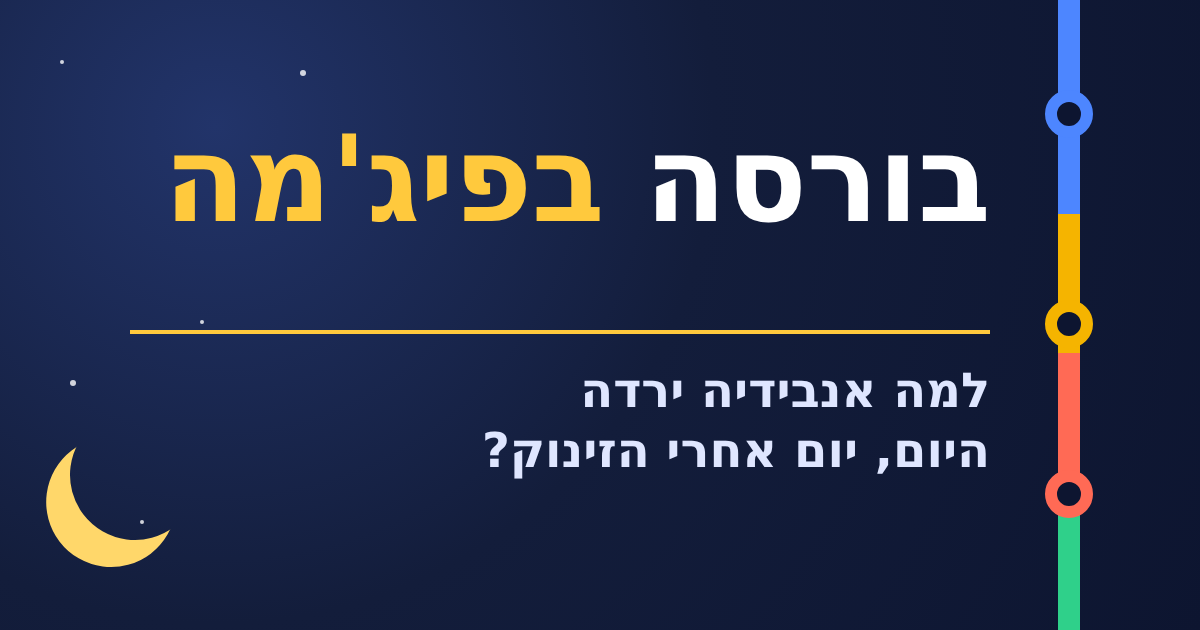
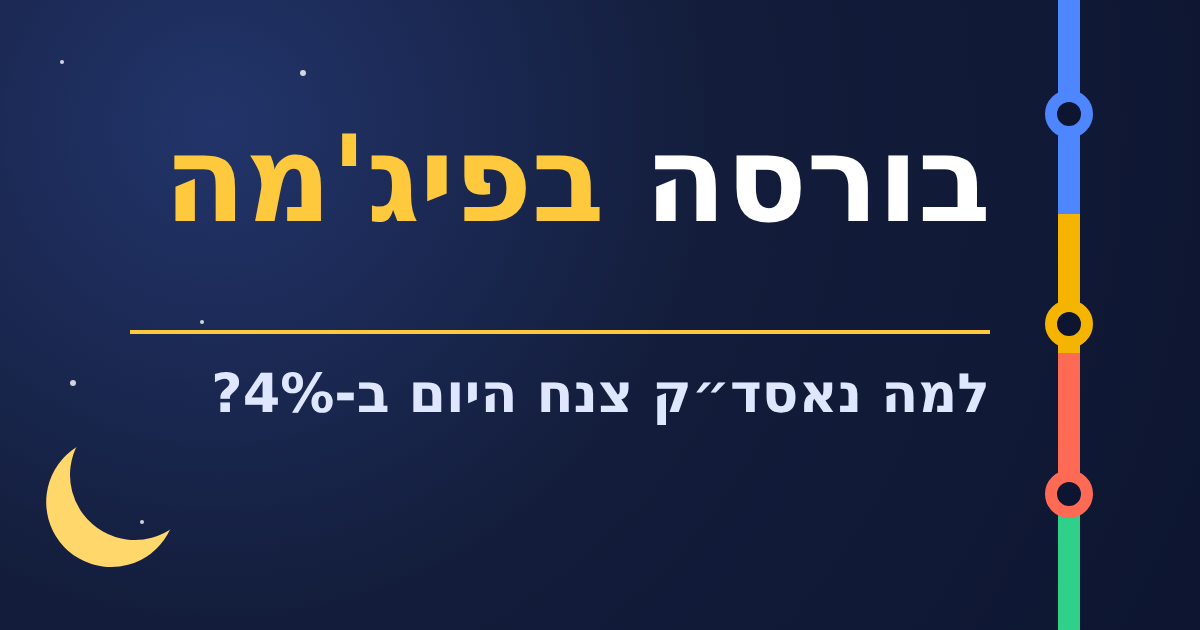
סקירת שווקים 25.11.2026
Claude-Session: https://claude.ai/code/session_019YX1ZAMNWE6e8aqupeQN2t

Changed region(s): [[0.185, 0.573, 0.8325, 0.754]]

diff --git a/index.html b/index.html
@@ -6,15 +6,15 @@
 <meta name="apple-mobile-web-app-title" content="בורסה בפיג'מה">
 <meta name="apple-mobile-web-app-capable" content="yes">
 <title>בורסה בפיג'מה</title>
-<meta name="description" content="יום אחרי הזינוק, אנבידיה ושאר מניות השבבים יורדות. גם תל אביב ירדה, והדולר כמעט בשיא של שנה.">
+<meta name="description" content="שלוש סיבות הגיעו יחד: ספקות בבינה מלאכותית, אינפלציה חמה ומכסים חדשים. הדולר בשיא מספטמבר 2025.">
 <link rel="alternate" type="application/rss+xml" title="בורסה בפיג'מה" href="https://skirat-shvakim.github.io/feed.xml">
 <meta property="og:type" content="article">
 <meta property="og:site_name" content="בורסה בפיג'מה">
 <meta property="og:locale" content="he_IL">
 <meta property="og:url" content="https://skirat-shvakim.github.io/">
-<meta property="og:title" content="למה אנבידיה ירדה היום, יום אחרי הזינוק?">
-<meta property="og:description" content="יום אחרי הזינוק, אנבידיה ושאר מניות השבבים יורדות. גם תל אביב ירדה, והדולר כמעט בשיא של שנה.">
-<meta property="og:image" content="https://skirat-shvakim.github.io/og.png?v=2411">
+<meta property="og:title" content="למה נאסד״ק צנח היום ב-4%?">
+<meta property="og:description" content="שלוש סיבות הגיעו יחד: ספקות בבינה מלאכותית, אינפלציה חמה ומכסים חדשים. הדולר בשיא מספטמבר 2025.">
+<meta property="og:image" content="https://skirat-shvakim.github.io/og.png?v=2511">
 <meta property="og:image:width" content="1200">
 <meta property="og:image:height" content="630">
 <meta name="twitter:card" content="summary_large_image">
@@ -274,7 +274,7 @@ button:focus-visible,input:focus-visible,summary:focus-visible,a:focus-visible{o
       <svg viewBox="0 0 40 40" aria-hidden="true"><rect width="40" height="40" rx="11" fill="#131d3b"/><circle cx="26.5" cy="11.5" r="6" fill="#ffd76a"/><circle cx="29.3" cy="9.6" r="5.3" fill="#131d3b"/><path d="M6 31 L13.5 24 L20 26 L32.5 17.5" fill="none" stroke="#4d86ff" stroke-width="3.4" stroke-linecap="round" stroke-linejoin="round"/><circle cx="13.5" cy="24" r="3" fill="#131d3b" stroke="#f5b400" stroke-width="2.3"/><circle cx="32.5" cy="17.5" r="3" fill="#131d3b" stroke="#ff6a55" stroke-width="2.3"/><circle cx="9" cy="9" r=".8" fill="#fff"/><circle cx="16" cy="6.5" r=".6" fill="#fff"/></svg>
       <span class="bt"><span class="b1">בורסה</span> <span class="b2">בפיג'מה</span></span>
     </a>
-    <span class="date">יום שלישי · 24.11</span>
+    <span class="date">יום רביעי · 25.11</span>
     <div class="tsz" role="group" aria-label="גודל טקסט"><button type="button" id="tszDown" aria-label="הקטנת טקסט">א−</button><button type="button" id="tszUp" aria-label="הגדלת טקסט">א+</button></div>
     <button type="button" class="menu" id="menuBtn" aria-controls="nav" aria-expanded="false" aria-label="תפריט"><span></span><span></span><span></span></button>
   </header>
@@ -290,13 +290,13 @@ button:focus-visible,input:focus-visible,summary:focus-visible,a:focus-visible{o
   <section class="card hero" id="hero" data-nav="בשורה התחתונה">
     <div class="newbie" id="newbie" hidden><span>חדש בשוק ההון? <a href="start.html">התחל כאן: 5 מושגים ב-2 דקות</a></span><button type="button" id="newbieX" aria-label="סגירה">✕</button></div>
     <div class="meta"><span class="rt">⏱ 30 שניות לעיקר · 3 דקות להכול</span></div>
-    <span class="mood">יום אדום · אחרי החגיגה</span>
-    <h1>החגיגה נגמרה מהר: השבבים יורדים, והדולר קרוב לשיא</h1>
-    <p class="sub">יום אחרי הזינוק, אנבידיה ושאר מניות השבבים יורדות. גם תל אביב ירדה, והדולר כמעט בשיא של שנה.</p>
+    <span class="mood">יום אדום · מכה להייטק</span>
+    <h1>יום קשה בוול סטריט: נאסד״ק צונח 4%, הדולר מזנק</h1>
+    <p class="sub">שלוש סיבות הגיעו יחד: ספקות בבינה מלאכותית, אינפלציה חמה ומכסים חדשים. הדולר בשיא מספטמבר 2025.</p>
     <ul class="bottom">
-      <li>אנבידיה ירדה כ-7%, יום אחרי זינוק של 31%.</li>
-      <li>נאסד״ק ירד כ-2.6% ו-<button class="term" data-t="sp500">S&amp;P 500</button> כ-1.2%, באמצע המסחר.</li>
-      <li><button class="term" data-t="ta125">ת״א 125</button> ירד 0.6%. טאואר צנחה 8.5%.</li>
+      <li>נאסד״ק ירד כ-4% באמצע המסחר. אנבידיה ירדה כ-8%.</li>
+      <li>הדולר עלה ל-3.38 ש״ח, השער הגבוה מספטמבר 2025.</li>
+      <li><button class="term" data-t="ta125">ת״א 125</button> ירד כ-1%. טאואר ונובה ירדו 6% עד 7%.</li>
     </ul>
     <button type="button" class="listen" id="listen" aria-pressed="false" hidden><svg viewBox="0 0 24 24" aria-hidden="true"><path d="M4 9v6h4l5 4V5L8 9H4z" fill="currentColor"/><path d="M16 8.5a5 5 0 0 1 0 7M18.5 6a8.5 8.5 0 0 1 0 12" fill="none" stroke="currentColor" stroke-width="2" stroke-linecap="round"/></svg><span>הקשב לעיקר</span></button>
     <button type="button" class="share" data-share>שתפו את הסקירה בוואטסאפ</button>
@@ -305,11 +305,11 @@ button:focus-visible,input:focus-visible,summary:focus-visible,a:focus-visible{o
   <section class="card me" id="me" data-nav="מה זה אומר עליי">
     <h2>מה זה אומר עליי</h2>
     <ul>
-      <li><b>חופשה בחו״ל:</b> ה<button class="term" data-t="rep">שער היציג</button> של הדולר: 3.345 ש״ח. בפועל: 1,000 דולר עולים כ-3,345 ש״ח.</li>
-      <li><b>פנסיה והשתלמות:</b> מסלול מניות אמריקאי ירד היום כ-1%. בפועל: על 100,000 ש״ח, כ-1,200 ש״ח פחות, על הנייר.</li>
+      <li><b>חופשה בחו״ל:</b> ה<button class="term" data-t="rep">שער היציג</button> קפץ ל-3.38 ש״ח. בפועל: טיסה של 1,000 דולר התייקרה בכ-35 ש״ח מאתמול.</li>
+      <li><b>פנסיה והשתלמות:</b> מסלול מניות אמריקאי ירד היום כ-3%. בפועל: על 100,000 ש״ח, כ-2,800 ש״ח פחות, על הנייר.</li>
       <li><b>משכנתא:</b> ה<button class="term" data-t="prime">פריים</button> נשאר 4.75%. בנק ישראל יחליט שוב רק ב-4 בינואר.</li>
     </ul>
-    <div class="todo"><b>✅ משהו שאפשר לעשות</b><p>טס בקרוב לחו״ל? הדולר יקר עכשיו. אפשר לפצל את ההמרה לכמה פעמים, במקום להמיר הכול ביום אחד.</p></div>
+    <div class="todo"><b>✅ משהו שאפשר לעשות</b><p>היכנס לאתר של קרן הפנסיה ובדוק באיזה מסלול אתה חוסך. כך תדע כמה יום כמו היום משפיע עליך.</p></div>
   </section>
 
   <aside class="spons" id="sponsorSlot" aria-label="תוכן בחסות" hidden></aside>
@@ -317,24 +317,24 @@ button:focus-visible,input:focus-visible,summary:focus-visible,a:focus-visible{o
   <section class="card" id="numbers" data-nav="המספרים">
     <h2>המספרים</h2>
     <div class="tiles">
-      <div class="t"><span><button class="term" data-t="ta125">ת״א 125</button></span><b>3,747</b><span class="chg d">▼ 0.6%</span><span class="ctx">השבבים הכבידו</span><span class="asof">נעילה</span></div>
-      <div class="t"><span><button class="term" data-t="sp500">S&amp;P 500</button></span><b>≈7,147</b><span class="chg d">▼ 1.2%</span><span class="ctx">מחזיר חלק מהזינוק</span><span class="asof">נכון ל-18:00</span></div>
-      <div class="t"><span>נאסד״ק</span><b>≈23,467</b><span class="chg d">▼ 2.6%</span><span class="ctx hot">השבבים יורדים חזק</span><span class="asof">נכון ל-18:00</span></div>
-      <div class="t"><span>דולר / שקל</span><b>3.345</b><span class="chg u">▲ 0.1%</span><span class="ctx hot">קרוב לשיא של שנה</span><span class="asof">שער יציג היום</span></div>
-      <div class="t"><span>נפט ברנט</span><b>≈$89</b><span class="chg d">▼ 0.4%</span><span class="ctx">הסנקציות לא הקפיצו</span><span class="asof">נכון ל-08:40</span></div>
-      <div class="t"><span>זהב</span><b>$3,572</b><span class="chg d">▼ 2.2%</span><span class="ctx">ליד שפל של 14 חודשים</span><span class="asof">נכון ל-17:55</span></div>
+      <div class="t"><span><button class="term" data-t="ta125">ת״א 125</button></span><b>≈3,711</b><span class="chg d">▼ 1.0%</span><span class="ctx">השבבים שוב הכבידו</span><span class="asof">נעילה</span></div>
+      <div class="t"><span><button class="term" data-t="sp500">S&amp;P 500</button></span><b>≈7,001</b><span class="chg d">▼ 2.8%</span><span class="ctx hot">ירידה חדה ונדירה</span><span class="asof">נכון ל-18:06</span></div>
+      <div class="t"><span>נאסד״ק</span><b>≈22,748</b><span class="chg d">▼ 4.1%</span><span class="ctx hot">נוגע בשוק דובי</span><span class="asof">נכון ל-18:06</span></div>
+      <div class="t"><span>דולר / שקל</span><b>3.380</b><span class="chg u">▲ 1.0%</span><span class="ctx hot">הכי גבוה מספטמבר 2025</span><span class="asof">שער יציג היום</span></div>
+      <div class="t"><span>נפט ברנט</span><b>≈$90</b><span class="chg u">▲ 1.4%</span><span class="ctx">מתיחות במפרץ</span><span class="asof">נכון ל-17:30</span></div>
+      <div class="t"><span>זהב</span><b>≈$3,460</b><span class="chg d">▼ 3.2%</span><span class="ctx hot">מתחת ל-3,500 דולר</span><span class="asof">נכון ל-18:00</span></div>
     </div>
     <details class="adv">
       <summary>עוד נתונים, למתקדמים</summary>
       <div class="tiles">
-        <div class="t"><span>יורו / שקל</span><b>3.663</b><span class="chg d">▼ 0.1%</span><span class="ctx">כמעט בלי שינוי</span><span class="asof">שער יציג היום</span></div>
-        <div class="t"><span><button class="term" data-t="yield">תשואת אג״ח</button> ארה״ב, 10 שנים</span><b>4.91%</b><span class="chg d">▼ 0.01</span><span class="ctx">קרוב לשיא של שנים</span><span class="asof">נכון ל-17:30</span></div>
-        <div class="t"><span>אג״ח ממשלת ישראל (מדד)</span><b>כללי</b><span class="chg u">▲ 0.2%</span><span class="ctx">ביקוש לאיגרות בטוחות</span><span class="asof">נעילה</span></div>
-        <div class="t"><span><button class="term" data-t="vix">מדד הפחד VIX</button></span><b>27.6</b><span class="chg u">▲ 3.8%</span><span class="ctx">הפחד חוזר מעט</span><span class="asof">נכון ל-17:30</span></div>
-        <div class="t"><span>ביטקוין</span><b>≈$59,900</b><span class="chg d">▼ 4.6%</span><span class="ctx">שוב מתחת ל-60 אלף</span><span class="asof">נכון ל-17:30</span></div>
+        <div class="t"><span>יורו / שקל</span><b>≈3.70</b><span class="chg u">▲ 1.0%</span><span class="ctx">גם היורו התחזק</span><span class="asof">נכון ל-17:30</span></div>
+        <div class="t"><span><button class="term" data-t="yield">תשואת אג״ח</button> ארה״ב, 10 שנים</span><b>4.82%</b><span class="chg d">▼ 0.08</span><span class="ctx">בורחים לאיגרות בטוחות</span><span class="asof">נכון ל-18:00</span></div>
+        <div class="t"><span>אג״ח ממשלת ישראל, 10 שנים</span><b>4.15%</b><span class="chg d">▼ 0.04</span><span class="ctx">לא אומת</span><span class="asof">נעילת אתמול</span></div>
+        <div class="t"><span><button class="term" data-t="vix">מדד הפחד VIX</button></span><b>33.5</b><span class="chg u">▲ 27%</span><span class="ctx hot">פחד גבוה</span><span class="asof">נכון ל-18:06</span></div>
+        <div class="t"><span>ביטקוין</span><b>≈$58,200</b><span class="chg d">▼ 1.9%</span><span class="ctx">ממשיך לרדת</span><span class="asof">נכון ל-18:00</span></div>
       </div>
     </details>
-    <p class="note">ת״א 125: נעילה. וול סטריט עדיין פתוחה: נתונים מ-18:00 שעון ישראל. דולר ויורו: השער היציג, מול אתמול. הנפט: מחיר מהבוקר. הזהב: חוזים עתידיים.</p>
+    <p class="note">ת״א 125: נעילה, ממקור אחד (לא אומת). וול סטריט עדיין פתוחה: נתונים מ-18:06 שעון ישראל. דולר: השער היציג, מול אתמול. יורו: שער חי. הזהב: חוזים עתידיים.</p>
   </section>
 
   <section class="card pick" id="stocks" data-nav="המניות שלי">
@@ -351,22 +351,23 @@ button:focus-visible,input:focus-visible,summary:focus-visible,a:focus-visible{o
 
   <section class="card" id="story" data-nav="הסיפור של היום" data-fold>
     <h2>הסיפור של היום</h2>
-    <p class="teaser">אחרי הזינוק של אתמול, המשקיעים לוקחים רווחים, והספקות על הבינה המלאכותית חוזרים.</p>
+    <p class="teaser">שלוש בעיות הגיעו ביחד: ספק בבינה מלאכותית, אינפלציה חמה בארה״ב ומכסים חדשים.</p>
     <button type="button" class="kidb" id="kidBtn" aria-expanded="false" aria-controls="kid">🧒 תסביר לי כמו לילד בן 10</button>
     <div class="kid" id="kid" hidden>
-      <p>תחשוב על כיתה שקיבלה פתאום ציון מעולה.</p>
-      <p>אתמול כולם חגגו וקפצו משמחה.</p>
-      <p>היום ההורים שאלו: זה יקרה גם במבחן הבא?</p>
-      <p>קצת מהשמחה ירדה. זה מה שקרה לאנבידיה היום.</p>
+      <p>כמה חברים שמו את כל דמי הכיס בדוכן לימונדה ענק.</p>
+      <p>עכשיו כולם שואלים: יהיו מספיק קונים?</p>
+      <p>באותו יום ההורים אמרו: הלוואות יתייקרו.</p>
+      <p>וגם הלימונים מחו״ל עומדים להתייקר.</p>
+      <p>אז הרבה נבהלו, ומכרו את החלק שלהם בדוכן.</p>
     </div>
     <div class="fold-body">
-      <p>אתמול אנבידיה זינקה 31%, אחרי שהמנכ״ל ג׳נסן הואנג חזר. היום המניה ירדה כ-7%. חלק מהמשקיעים עשו <button class="term" data-t="profit">מימוש רווחים</button>. חברי קונגרס משתי המפלגות מתחו ביקורת על החזרתו. גם הספקות חזרו: האם ההשקעות בבינה המלאכותית ישתלמו? מניות שבבים אחרות ירדו איתה. AMD ירדה כ-8%.</p>
-      <p>בתל אביב, ת״א 125 ירד 0.6%. טאואר, יצרנית שבבים, צנחה 8.5%. מנגד, אמון הצרכנים בארה״ב קפץ לשיא של כמעט שנתיים. זו חדשה טובה לכלכלה. אבל השוק כבר מעריך כ-95% סיכוי ש<button class="term" data-t="fed">הפד</button> יעלה ריבית בדצמבר.</p>
+      <p>נאסד״ק ירד היום כ-4%, ו-<button class="term" data-t="sp500">S&amp;P 500</button> כ-2.8%. מדד מאה החברות הגדולות בנאסד״ק נגע ב<button class="term" data-t="bear">שוק דובי</button>. אנבידיה ירדה כ-8%, ו-AMD כ-8%. המשקיעים שואלים שוב: האם ההשקעה הענקית בבינה מלאכותית תשתלם? גם <button class="term" data-t="pce">מדד PCE</button> יצא חם. האינפלציה בארה״ב: 3.8% בשנה.</p>
+      <p>בגלל זה, השוק מעריך כ-98% סיכוי ש<button class="term" data-t="fed">הפד</button> יעלה ריבית ב-9 בדצמבר. במקביל, ארה״ב הציעה <button class="term" data-t="tariff">מכסים</button> חדשים על סין, אירופה ועוד מדינות. ישראל לא ברשימה. בתל אביב, ת״א 125 ירד כ-1%. הדולר עלה ל-3.38 ש״ח. הזהב ירד מתחת ל-3,500 דולר.</p>
       <h3 class="subh">הזווית הגיאופוליטית</h3>
       <div class="geo-in">
-        <div class="item"><span class="tag">איראן</span><h3>מוקשים בהורמוז, סנקציות מוושינגטון</h3><p>איראן טוענת ששלוש מכליות עלו על מוקשים במצר הורמוז. הטענה לא אומתה. ארה״ב הטילה <button class="term" data-t="sanctions">סנקציות</button> חדשות על הכספים של איראן. הנפט כמעט לא זז.</p></div>
-        <div class="item"><span class="tag">ישראל</span><h3>למה השקל חלש?</h3><p>הדולר קרוב לשיא של שנה. לפי ביזפורטל, יש שלוש סיבות. הריבית בארה״ב גבוהה מהריבית כאן. התשואות בארה״ב בשיא של שנים. ויש אי-ודאות פוליטית: הממשלה החדשה ותקציב 2027.</p></div>
-        <div class="item"><span class="tag">ארה״ב–סין</span><h3>עוד לחץ על שבבים לסין</h3><p>ארה״ב הכניסה חברה בת של עליבאבא לרשימה שחורה. גם המכירות של אנבידיה לסין נבדקות יותר. זה עוד סיבה לזהירות במניות השבבים.</p></div>
+        <div class="item"><span class="tag">ארה״ב–סין</span><h3>מכסים חדשים, בינתיים רק הצעה</h3><p>ארה״ב מציעה מכס נוסף של 20% על סין. גם אירופה, יפן ודרום קוריאה ברשימה. ההחלטה תגיע רק אחרי ינואר. הפסקת האש המסחרית עם סין נגמרת ב-10 בינואר.</p></div>
+        <div class="item"><span class="tag">איראן</span><h3>המפרץ שוב מתחמם</h3><p>לפי דיווחים, איראן תקפה היום בסיסים אמריקאיים במפרץ. החות׳ים תקפו את ריאד. הנפט עלה כ-1.4%, לכ-90 דולר לחבית.</p></div>
+        <div class="item"><span class="tag">ישראל</span><h3>שותף ראשון לאיזנקוט</h3><p>איזנקוט חתם הסכם ראשון, עם ליברמן. לגוש שלו 48 מושבים, וצריך 61. המנדט נגמר ב-6 בדצמבר. אי-הוודאות הזו מחלישה את השקל.</p></div>
       </div>
     </div>
   </section>
@@ -374,25 +375,25 @@ button:focus-visible,input:focus-visible,summary:focus-visible,a:focus-visible{o
 
   <section class="card think" id="think" data-nav="נקודה למחשבה" data-fold>
     <h2>נקודה למחשבה</h2>
-    <div class="item teaser"><h3>זינוק ענק לא מבטיח המשך</h3><p>אחרי עלייה חדה, חלק מהמשקיעים מוכרים כדי לשמור את הרווח. ירידה למחרת היא דבר רגיל.</p></div>
+    <div class="item teaser"><h3>ירידה של 20% היא לא סוף הסיפור</h3><p>נאסד״ק ירד 20% ויותר כמה פעמים בעבר. בסוף הוא תמיד חזר לשיא. לפעמים זה לקח שנים.</p></div>
     <div class="fold-body">
-      <div class="item"><h3>חדשות טובות, תגובה חמוצה</h3><p>אמון הצרכנים בארה״ב בשיא של שנתיים. כלכלה חזקה יכולה לשכנע את הפד להעלות ריבית. לכן השוק לא חגג.</p></div>
-      <div class="item"><h3>מה אם כולם טועים?</h3><p>אולי הירידה היום היא רק עצירה קצרה. אם הדוחות הקרובים יהיו חזקים, החשש מהבינה המלאכותית עלול להתברר כמוגזם.</p></div>
+      <div class="item"><h3>חדשות טובות, שוב תגובה רעה</h3><p>הצמיחה בארה״ב חזקה, והאבטלה נמוכה. אבל עם אינפלציה חמה, זה מקרב העלאת ריבית. לכן השוק ירד.</p></div>
+      <div class="item"><h3>מה אם כולם טועים?</h3><p>יש אנליסטים שאומרים: זה רגע הכאב הגדול, ואחריו עלייה. אחרים מזהירים שמוקדם מדי. אף אחד לא יודע בוודאות.</p></div>
     </div>
   </section>
 
   <div class="learn">
     <section class="card word" id="word" data-nav="מונח היום">
       <h2>מונח היום</h2>
-      <p class="w">מימוש רווחים</p>
-      <p>מכירה של מניה אחרי שהיא עלתה, כדי "לנעול" את הרווח. כשהרבה עושים זאת יחד, המחיר יורד.</p>
-      <p class="ex">דוגמה מהיום: אנבידיה זינקה אתמול 31%. היום רבים מכרו ברווח, והמניה ירדה כ-7%.</p>
+      <p class="w">שוק דובי</p>
+      <p>מצב שבו מדד יורד 20% או יותר מהשיא האחרון שלו. ההפך הוא שוק שורי, כשהמחירים עולים לאורך זמן.</p>
+      <p class="ex">דוגמה מהיום: מדד מאה החברות הגדולות בנאסד״ק נגע ב-20% מתחת לשיא שלו מאוקטובר.</p>
     </section>
     <section class="card myth" id="myth" data-nav="מיתוס או עובדה">
       <h2>מיתוס או עובדה?</h2>
-      <p class="claim">"כשהדולר מתחזק, הרבה מוצרים בארץ מתייקרים."</p>
+      <p class="claim">"כשהמניות צונחות, הזהב תמיד עולה."</p>
       <div class="mb" role="group" aria-label="מה דעתך?"><button type="button" data-g="myth">מיתוס</button><button type="button" data-g="fact">עובדה</button></div>
-      <div class="mv" id="mythAns" data-ans="fact" aria-live="polite" hidden><span class="res">עובדה.</span><p>ישראל קונה בחו״ל דלק, רכבים, מחשבים ומזון. המחיר שלהם נקבע בדולרים. והיום הדולר קרוב לשיא של שנה.</p></div>
+      <div class="mv" id="mythAns" data-ans="myth" aria-live="polite" hidden><span class="res">מיתוס.</span><p>לא תמיד. היום נאסד״ק צנח כ-4%, וגם הזהב ירד כ-3%. דולר חזק וריבית שצפויה לעלות הכבידו על הזהב.</p></div>
     </section>
   </div>
 
@@ -412,38 +413,39 @@ button:focus-visible,input:focus-visible,summary:focus-visible,a:focus-visible{o
   <section class="card" id="tomorrow" data-nav="מה לעקוב מחר" data-fold>
     <h2>מה לעקוב מחר</h2>
     <ul class="cal teaser">
-      <li><time>רביעי</time><span>מדד PCE: נתון האינפלציה האחרון בארה״ב לפני הפד.</span></li>
+      <li><time>חמישי</time><span>וול סטריט סגורה לחג ההודיה. תל אביב תסחר בלי כיוון מניו יורק.</span></li>
     </ul>
     <div class="fold-body"><ul class="cal">
-      <li><time>הלילה</time><span>דוחות דל, וורקדיי ואוטודסק: מבחן לביקוש לבינה מלאכותית.</span></li>
-      <li><time>רביעי</time><span>האם הירידה בשבבים תימשך גם מחר?</span></li>
-      <li><time>רביעי</time><span>דוחות הפניקס, מנורה, עזריאלי ושטראוס בתל אביב.</span></li>
-      <li><time>חמישי</time><span>חג ההודיה: וול סטריט סגורה. בשישי מסחר מקוצר.</span></li>
-      <li><time>9.12</time><span>החלטת הפד: השוק מעריך כ-95% סיכוי להעלאה.</span></li>
+      <li><time>חמישי</time><span>האם הירידה בשבבים תימשך בתל אביב? טאואר ונובה במבחן.</span></li>
+      <li><time>שישי</time><span>מסחר קצר בתל אביב. וול סטריט נסגרת מוקדם, ב-20:00.</span></li>
+      <li><time>29.11</time><span>מדינות הנפט הגדולות נפגשות על כמות התפוקה.</span></li>
+      <li><time>6.12</time><span>המנדט של איזנקוט להרכבת ממשלה נגמר.</span></li>
+      <li><time>9.12</time><span>החלטת הפד: השוק מעריך כ-98% סיכוי להעלאת ריבית.</span></li>
       <li><time>4.1</time><span>ההחלטה הבאה של בנק ישראל על הריבית.</span></li>
     </ul></div>
   </section>
 
   <section class="card src" id="sources" data-nav="מקורות" data-fold>
     <h2>מקורות</h2>
-    <p class="teaser">הסקירה מבוססת על 15 כתבות ממקורות בארץ ובעולם.</p>
+    <p class="teaser">הסקירה מבוססת על 16 כתבות ממקורות בארץ ובעולם.</p>
     <div class="fold-body">
     <p>
-      <a href="https://il.investing.com/news/stock-market-news/article-1041386">Investing – נעילת תל אביב</a> ·
-      <a href="https://www.ice.co.il/finance/news/article/1138979">אייס – טאואר צנחה</a> ·
-      <a href="https://www.sponser.co.il/Article.aspx?ArticleId=124111">ספונסר – סיכום המסחר</a> ·
-      <a href="https://www.newsru.co.il/finance/24nov2026/valuta.html">NEWSru – השער היציג</a> ·
-      <a href="https://www.bizportal.co.il/marketopionion/news/article/20049932">ביזפורטל – למה השקל נחלש</a> ·
-      <a href="https://il.investing.com/news/stock-market-news/article-1040593">Investing – פתיחת המסחר</a> ·
-      <a href="https://www.tipranks.com/news/stock-market-today-nov-24-markets-turn-jittery-even-as-huang-returns-to-nvidia">TipRanks – השווקים נהיים עצבניים</a> ·
-      <a href="https://sellthenews.org/catalyx/market/2026-11-24">Sell The News – וול סטריט היום</a> ·
-      <a href="https://finance.yahoo.com/markets/stocks/articles/stock-market-news-nov-24-080800306.html">Zacks – נעילת יום שני</a> ·
-      <a href="https://www.fool.com/investing/2026/11/24/why-nvidia-stock-gave-back-some-gains-today/">Motley Fool – למה אנבידיה ירדה</a> ·
-      <a href="https://finance.yahoo.com/markets/live/stock-market-today-tuesday-november-24-dow-sp-500-nasdaq-rebound-090614276.html">Yahoo Finance – הפד והשבבים</a> ·
-      <a href="https://www.prnewswire.com/news-releases/us-consumer-confidence-surged-in-november-302949447.html">Conference Board – אמון הצרכנים</a> ·
-      <a href="https://www.thenationalnews.com/news/gulf/2026/11/24/is-iran-weighing-tanker-convoy-to-break-us-blockade/">The National – איראן והמצור</a> ·
-      <a href="https://www.kotakneo.com/news/commodities/oil-price-today-24-november-2026-brent-falls-below-90-us-iran-talks-supply-risks/">Kotak – מחיר הנפט</a> ·
-      <a href="https://finance.yahoo.com/personal-finance/investing/article/gold-price-today-tuesday-november-24-2026-gold-prices-improve-lift-from-14-month-lows-121821092.html">Yahoo Finance – הזהב</a>
+      <a href="https://finance.yahoo.com/markets/live/stock-market-today-wednesday-november-25-dow-sp-500-nasdaq-pce-inflation-data-091428237.html">Yahoo Finance – וול סטריט היום</a> ·
+      <a href="https://www.irishtimes.com/business/2026/11/25/us-stocks-sell-off-deepens-as-ai-trade-cracks/">Irish Times / Bloomberg – מכירות בבינה מלאכותית</a> ·
+      <a href="https://marketspeaker.com/nasdaq100-bear-market-threshold-ai-stocks-tariffs-pce-november-25-2026/">MarketSpeaker – נאסד״ק 100 וסף הדובי</a> ·
+      <a href="https://www.investing.com/news/economy-news/us-weekly-jobless-claims-fall-more-than-expected-5050841">Investing – דמי אבטלה בארה״ב</a> ·
+      <a href="https://ca.finance.yahoo.com/news/us-plans-hike-tariffs-china-131325143.html">AP – תוכנית המכסים</a> ·
+      <a href="https://www.investing.com/news/stock-market-news/israel-stocks-lower-at-close-of-trade-ta-35-down-142-5051183">Investing – נעילת תל אביב</a> ·
+      <a href="https://tradingeconomics.com/israel/stock-market">Trading Economics – ת״א 125</a> ·
+      <a href="https://www.bizportal.co.il/capitalmarket/news/article/20050036">ביזפורטל – השבבים בבוקר</a> ·
+      <a href="https://www.globes.co.il/portal/instrument.aspx?instrumentid=4186">גלובס – השער היציג</a> ·
+      <a href="https://www.ynet.co.il/economy/article/by6ldwn1qg">ynet – הדולר בשיא</a> ·
+      <a href="https://www.ice.co.il/finance/news/article/1139085">אייס – הדולר בצהריים</a> ·
+      <a href="https://www.boi.org.il/en/communication-and-publications/press-releases/the-monetary-committee-decides-on-november-23-2026-to-keep-the-interest-rate-unchanged-at-325-percent">בנק ישראל – החלטת הריבית</a> ·
+      <a href="https://admiralmarkets.com/analytics/traders-blog/fed-rate-decision-december-2026-preview">Admirals – הפד בדצמבר</a> ·
+      <a href="https://www.aljazeera.com/news/2026/11/25/israels-eisenkot-secures-first-coalition-partner-in-bid-to-form-government">Al Jazeera – הקואליציה של איזנקוט</a> ·
+      <a href="https://www.aljazeera.com/news/liveblog/2026/11/25/iran-war-live-houthis-threaten-saudi-ports-over-coalitions-hodeidah-order">Al Jazeera – איראן והמפרץ</a> ·
+      <a href="https://en.globes.co.il/en/article-teva-to-lay-off-150-employees-at-kfar-saba-plant-1001564912">Globes – טבע בכפר סבא</a>
     </p>
     </div>
   </section>
@@ -453,7 +455,7 @@ button:focus-visible,input:focus-visible,summary:focus-visible,a:focus-visible{o
   <section class="join" id="join" aria-labelledby="joinT" hidden></section>
   <div class="fb" id="fb" role="group" aria-labelledby="fbq"><p id="fbq">הסקירה הייתה ברורה?</p><div class="fbb"><button type="button" data-fb="yes" aria-label="כן, ברורה">👍 כן</button><button type="button" data-fb="no" aria-label="לא, לא ברורה">👎 לא ממש</button></div><p class="fbt" id="fbt" hidden>תודה! זה עוזר לנו לשפר.</p></div>
   <div class="sharefoot"><p>אהבת? שלח לחבר שמתחיל להתעניין בשוק</p><button type="button" class="share" data-share>שיתוף</button></div>
-  <p class="foot"><a href="accessibility.html">הצהרת נגישות</a> · <a href="glossary.html">מילון</a> · <a href="start.html">התחל כאן</a><span data-adv hidden> · <a href="advertise.html">פרסמו אצלנו</a></span><br>הסקירה היא סיכום מידע וניתוח בלבד ואינה מהווה ייעוץ השקעות.<br>עודכן: 24.11.2026 18:32</p>
+  <p class="foot"><a href="accessibility.html">הצהרת נגישות</a> · <a href="glossary.html">מילון</a> · <a href="start.html">התחל כאן</a><span data-adv hidden> · <a href="advertise.html">פרסמו אצלנו</a></span><br>הסקירה היא סיכום מידע וניתוח בלבד ואינה מהווה ייעוץ השקעות.<br>עודכן: 25.11.2026 18:34</p>
 </div>
 
 <div class="sheet" id="sheet" role="dialog" aria-modal="false" aria-labelledby="sh-t">
@@ -466,48 +468,48 @@ button:focus-visible,input:focus-visible,summary:focus-visible,a:focus-visible{o
 <script>
 {
   const STOCKS=[
-    {tk:"NVDA",name:"אנבידיה",price:"$153.52",chg:-7.0,week:[150.96,145.98,125.53,165.05,153.52],note:"מימוש רווחים אחרי זינוק של 31% אתמול. מחיר נכון ל-17:20."},
-    {tk:"AAPL",name:"אפל",price:"$349.08",chg:1.9,week:[351.91,352.45,349.21,342.56,349.08],note:"נעילת אתמול. היום כמעט בלי שינוי (נתון חלקי)."},
-    {tk:"MSFT",name:"מיקרוסופט",price:"$493.94",chg:0.3,week:[508.29,498.30,484.52,492.50,493.94],note:"יציבה היום. מחיר נכון ל-18:10."},
-    {tk:"TSLA",name:"טסלה",price:"$385.46",chg:11.5,week:[380.11,383.72,374.41,345.82,385.46],note:"נעילת אתמול: זינוק אחרי דיווחים על מיזוג עם ספייס-אקס."},
-    {tk:"AMZN",name:"אמזון",price:"$255.39",chg:3.5,week:[257.89,267.74,257.37,246.82,255.39],note:"נעילת אתמול. בלי חדשות מהותיות היום."},
-    {tk:"GOOGL",name:"גוגל (אלפבית)",price:"$282.10",chg:6.3,week:[280.20,282.44,272.66,265.29,282.10],note:"נעילת אתמול. בלי חדשות מהותיות היום."},
-    {tk:"META",name:"מטא",price:"$597.60",chg:6.6,week:[618.87,616.38,596.22,560.84,597.60],note:"נעילת אתמול. בלי חדשות מהותיות היום."},
-    {tk:"AVGO",name:"ברודקום",price:"$313.55",chg:3.0,week:[341.60,354.05,346.65,304.41,313.55],note:"נעילת אתמול. היום ירדה כ-2% עם השבבים."},
-    {tk:"AMD",name:"AMD",price:"$453.46",chg:6.8,week:[503.41,530.14,489.19,424.39,453.46],note:"נעילת אתמול. היום ירדה כ-8% עם השבבים."},
-    {tk:"NFLX",name:"נטפליקס",price:"$58.10",chg:2.4,week:[59.68,59.82,58.46,56.73,58.10],note:"נעילת אתמול. בלי חדשות מהותיות היום."},
-    {tk:"PLTR",name:"פלנטיר",price:"$159.89",chg:0.3,week:[156.67,153.68,143.49,159.36,159.89],note:"יציבה היום, אחרי זינוק של 11% אתמול. נכון ל-18:20."},
-    {tk:"JPM",name:"ג׳יי.פי מורגן",price:"$315.18",chg:-0.5,week:[324.11,320.22,310.53,316.66,315.18],note:"בלי חדשות מהותיות היום. נכון ל-18:20."},
-    {tk:"V",name:"ויזה",price:"$409.40",chg:1.9,week:[416.77,415.22,402.25,401.87,409.40],note:"נעילת אתמול. בלי חדשות מהותיות היום."},
-    {tk:"KO",name:"קוקה-קולה",price:"$95.88",chg:-1.1,week:[98.79,98.09,96.09,96.99,95.88],note:"נעילת אתמול. בלי חדשות מהותיות היום."},
-    {tk:"TEVA",name:"טבע",price:"$40.19",chg:0.5,week:[39.23,39.98,40.19],note:"בלי חדשות מהותיות היום. נכון ל-18:20. נתונים חלקיים."},
-    {tk:"CHKP",name:"צ׳ק פוינט",price:"$164.54",chg:3.3,week:[154.03,155.50,154.88,159.25,164.54],note:"עולה יומיים ברצף, בלי חדשות מיוחדות. נכון ל-18:20."},
-    {tk:"NICE",name:"נייס",price:"$90.39",chg:1.9,week:[85.22,88.71,90.39],note:"בלי חדשות מהותיות היום. נכון ל-18:20. נתונים חלקיים."},
-    {tk:"WIX",name:"וויקס",price:"$67.66",chg:7.6,week:[63.54,59.25,59.03,62.88,67.66],note:"זינוק שני ברצף. לא מצאנו סיבה מפורסמת. נכון ל-18:20."},
-    {tk:"MBLY",name:"מובילאיי",price:"$4.72",chg:-1.9,week:[5.205,5.09,4.57,4.805,4.72],note:"יורדת למרות המלצת קנייה חדשה של בית השקעות. נכון ל-18:20."},
-    {tk:"ESLT",name:"אלביט מערכות",price:"$654.54",chg:-2.3,week:[698.36,681.98,655.89,670.10,654.54],note:"יורדת למרות חוזה לספינות של הצי הגרמני. נכון ל-18:15."}
+    {tk:"NVDA",name:"אנבידיה",price:"$142.28",chg:-8.4,week:[145.98,125.53,165.05,155.38,142.28],note:"ירידה שנייה ברצף. ספקות בבינה מלאכותית ואינפלציה חמה. נכון ל-18:06."},
+    {tk:"AAPL",name:"אפל",price:"$348.80",chg:-1.5,week:[349.21,342.56,349.08,354.07,348.80],note:"יורדת עם השוק, פחות מחברות השבבים. נכון ל-18:27."},
+    {tk:"MSFT",name:"מיקרוסופט",price:"$483.43",chg:-2.6,week:[498.30,484.52,492.50,496.13,483.43],note:"חששות מההוצאה הענקית על מרכזי נתונים. נכון ל-17:02."},
+    {tk:"TSLA",name:"טסלה",price:"$360.07",chg:-6.4,week:[374.41,345.82,385.46,384.68,360.07],note:"אירופה דחתה דיון על אישור הנהיגה העצמית. נכון ל-16:49."},
+    {tk:"AMZN",name:"אמזון",price:"≈$238",chg:-5.6,week:[257.37,246.82,255.39,252.29,238.06],note:"ירדה כ-5.6% בפתיחת המסחר. מחיר מחושב, לא אומת."},
+    {tk:"GOOGL",name:"גוגל (אלפבית)",price:"≈$263",chg:-5.6,week:[272.66,265.29,282.10,279.05,263.42],note:"ירדה כ-5.6% בפתיחת המסחר. מחיר מחושב, לא אומת."},
+    {tk:"META",name:"מטא",price:"$589.82",chg:-1.3,week:[596.22,560.84,597.60,589.82],note:"נעילת אתמול (24.11). מחיר של היום לא נמצא."},
+    {tk:"AVGO",name:"ברודקום",price:"$281.25",chg:-6.6,week:[346.65,304.41,313.55,301.08,281.25],note:"דיווח: גוגל מקטינה הזמנות שבבים לשנת 2027. נכון ל-16:37."},
+    {tk:"AMD",name:"AMD",price:"$378.65",chg:-8.4,week:[489.19,424.39,453.46,413.27,378.65],note:"ירידה שנייה ברצף עם כל מניות השבבים. נכון ל-16:32."},
+    {tk:"NFLX",name:"נטפליקס",price:"$57.13",chg:-3.0,week:[58.46,56.73,58.10,58.87,57.13],note:"קנתה אולפן בהוליווד ב-380 מיליון דולר. נכון ל-18:21."},
+    {tk:"PLTR",name:"פלנטיר",price:"$151.81",chg:-5.8,week:[153.68,143.49,159.36,161.18,151.81],note:"יורדת עם מניות הבינה המלאכותית. נכון ל-16:51."},
+    {tk:"JPM",name:"ג׳יי.פי מורגן",price:"$311.41",chg:-1.8,week:[320.22,310.53,316.66,317.10,311.41],note:"יורדת עם השוק. בלי חדשות מהותיות היום. נכון ל-18:28."},
+    {tk:"V",name:"ויזה",price:"$416.78",chg:1.8,week:[402.25,401.87,409.40,416.78],note:"נעילת אתמול (24.11). מחיר של היום לא נמצא."},
+    {tk:"KO",name:"קוקה-קולה",price:"$97.73",chg:1.8,week:[98.09,96.09,96.99,95.88,97.73],note:"נעילת אתמול (24.11). מינתה סמנכ״ל כספים חדש."},
+    {tk:"TEVA",name:"טבע",price:"$39.19",chg:-2.3,week:[39.23,39.98,40.10,39.19],note:"תצמצם מחקר בכפר סבא ותפטר כ-150 עובדים עד 2027. מחיר מהיום."},
+    {tk:"CHKP",name:"צ׳ק פוינט",price:"$159.25",chg:0.1,week:[154.03,155.50,154.88,159.25],note:"מחיר נעילה אחרון שמצאנו (לא אומת). מחיר של היום לא נמצא."},
+    {tk:"NICE",name:"נייס",price:"$90.95",chg:1.3,week:[85.22,88.71,89.75,90.95],note:"עולה נגד השוק, בלי חדשות מיוחדות. נכון ל-18:24."},
+    {tk:"WIX",name:"וויקס",price:"$65.97",chg:0.4,week:[59.25,59.03,62.88,65.74,65.97],note:"יציבה ביום של ירידות. בלי חדשות מהותיות. נכון ל-18:29."},
+    {tk:"MBLY",name:"מובילאיי",price:"$4.48",chg:-4.6,week:[5.09,4.57,4.805,4.69,4.48],note:"יורדת עם מניות הרכב והטכנולוגיה. נכון ל-18:28."},
+    {tk:"ESLT",name:"אלביט מערכות",price:"$670.10",chg:2.2,week:[698.36,681.98,655.89,670.10],note:"נעילת 23.11, המחיר האחרון שאומת. מחיר עדכני לא נמצא."}
   ];
   const GLOSSARY={
     ta125:["ת״א 125","מדד של 125 החברות הגדולות בבורסה בתל אביב. הוא מראה איך הבורסה המקומית התנהגה באופן כללי."],
     sp500:["S&P 500","מדד של 500 החברות הגדולות בארה״ב. הרבה קרנות פנסיה והשתלמות בישראל משקיעות בו."],
     prime:["ריבית הפריים","הריבית שהבנקים בישראל גובים על הלוואות. היא תמיד גבוהה ב-1.5 נקודות אחוז מריבית בנק ישראל."],
     rep:["שער יציג","שער המטבע הרשמי שבנק ישראל מפרסם פעם ביום. לפיו מחשבים חשבונות, חוזים ומחירים רבים בדולרים."],
-    profit:["מימוש רווחים","מכירה של מניה אחרי שהיא עלתה, כדי לנעול את הרווח. כשהרבה מוכרים יחד, המחיר יורד."],
     fed:["הפד","הבנק המרכזי של ארה״ב. הוא קובע את הריבית על הדולר, וההחלטות שלו משפיעות על כל השווקים בעולם."],
-    sanctions:["סנקציות","עונשים כלכליים שמדינה מטילה על מדינה אחרת. למשל: איסור לסחור איתה או חסימה של הכסף שלה."],
+    bear:["שוק דובי","מצב שבו מדד יורד 20% או יותר מהשיא האחרון שלו. ההפך הוא שוק שורי, כשהמחירים עולים לאורך זמן."],
+    pce:["מדד PCE","מדד המחירים שהפד הכי סומך עליו. הוא בודק כמה התייקרו המוצרים והשירותים שאמריקאים קונים."],
+    tariff:["מכס","מס שמדינה גובה על סחורה שמגיעה מחו״ל. הוא מייקר את הסחורה המיובאת ופוגע ביצואנים."],
     vix:["מדד הפחד (VIX)","מדד שמראה כמה תנודות משקיעים מצפים לראות בוול סטריט בחודש הקרוב. מעל 30 נחשב פחד גבוה."],
-    yield:["תשואת אג״ח","הריבית שמקבל מי שמלווה כסף לממשלה. כשהיא עולה, הלוואות ומשכנתאות נוטות להתייקר."],
-    confidence:["אמון הצרכנים","סקר שבודק כמה אנשים אופטימיים לגבי הכלכלה והכסף שלהם. אמון גבוה בדרך כלל אומר יותר קניות."]
+    yield:["תשואת אג״ח","הריבית שמקבל מי שמלווה כסף לממשלה. כשהיא עולה, הלוואות ומשכנתאות נוטות להתייקר."]
   };
   const FAQ=[
-    ["אנבידיה ירדה כ-7%. מה השתנה מאתמול?","לא הרבה בחברה עצמה. אחרי זינוק של 31%, רבים מכרו ברווח. בנוסף, חזרו השאלות: האם ההשקעות בבינה מלאכותית ישתלמו? והמכירות לסין נבדקות."],
-    ["למה הדולר כל כך יקר עכשיו?","הריבית בארה״ב גבוהה מהריבית בישראל, ולכן הדולר מושך משקיעים. יש גם אי-ודאות פוליטית בארץ. השער היציג היום: 3.345 ש״ח, קרוב לשיא של שנה."],
-    ["הפד צפוי להעלות ריבית. מה זה אומר לי?","הלוואות בדולרים יתייקרו. זה עלול לחזק עוד את הדולר מול השקל. משכנתא בישראל לא משתנה ישירות: היא תלויה בבנק ישראל."],
-    ["אמון הצרכנים בארה״ב זינק. למה השוק לא שמח?","כי כלכלה חזקה מקטינה את הסיבה להוריד ריבית. היא אפילו מחזקת את הצפי להעלאה. מה שטוב לכלכלה לא תמיד טוב למניות באותו יום."],
-    ["מה קורה במצר הורמוז?","איראן טוענת ששלוש מכליות עלו על מוקשים. אין לזה אישור עצמאי. ארה״ב הוסיפה סנקציות. הנפט כמעט לא הגיב, כי בעולם יש היום הרבה נפט."]
+    ["למה נאסד״ק צנח דווקא היום?","שלוש סיבות הגיעו יחד. ספקות אם ההשקעה בבינה מלאכותית תשתלם. אינפלציה חמה בארה״ב, שמקרבת העלאת ריבית. והצעה למכסים חדשים על סין, אירופה ועוד מדינות."],
+    ["הדולר ב-3.38 ש״ח. זה ימשיך?","אף אחד לא יודע. הדולר עלה כי הריבית בארה״ב צפויה לעלות. גם המתיחות מול איראן והפוליטיקה בארץ מחלישות את השקל. אם המצב יירגע, השקל יכול להתחזק."],
+    ["מה זה אומר על הפנסיה שלי?","אם אתה במסלול מניות, הוא כנראה ירד היום. זה הפסד על הנייר. פנסיה היא חיסכון לעשרות שנים. ירידות חדות הן חלק רגיל מהדרך."],
+    ["למה הזהב ירד, אם יש פחד בשוק?","הזהב לא נותן ריבית. כשהריבית צפויה לעלות, חיסכון בדולרים נראה מושך יותר. גם דולר חזק מכביד על הזהב. לכן הוא ירד מתחת ל-3,500 דולר לאונקיה."],
+    ["מחר וול סטריט סגורה. מה זה אומר?","מחר חג ההודיה בארה״ב, והבורסה שם סגורה. בתל אביב יש מסחר רגיל. ביום שישי וול סטריט תיסגר מוקדם, ב-20:00 שעון ישראל."]
   ];
   const qa=([q,a])=>`<details><summary>${q}</summary><p>${a}</p></details>`;document.getElementById('faq').innerHTML=FAQ.slice(0,2).map(qa).join('');document.getElementById('faqMore').innerHTML=FAQ.slice(2).map(qa).join('');
-  const STOCK_NOTE="חלק מהמחירים: היום, בין 17:20 ל-18:20 שעון ישראל. השאר: נעילת אתמול (23.11) והשינוי באותו יום. הפירוט בהערה.";
+  const STOCK_NOTE="רוב המחירים מהיום, בין 16:30 ל-18:30 שעון ישראל, בזמן המסחר. מטא, ויזה, קוקה-קולה, צ׳ק פוינט ואלביט: מחיר הנעילה האחרון שמצאנו. הפירוט בהערה.";
 
   // ===== my stocks (choose up to 6, saved per device) =====
   const pills=document.getElementById('pills'),box=document.getElementById('stock'),chooser=document.getElementById('chooser'),opts=document.getElementById('opts'),find=document.getElementById('find'),editBtn=document.getElementById('editBtn');
